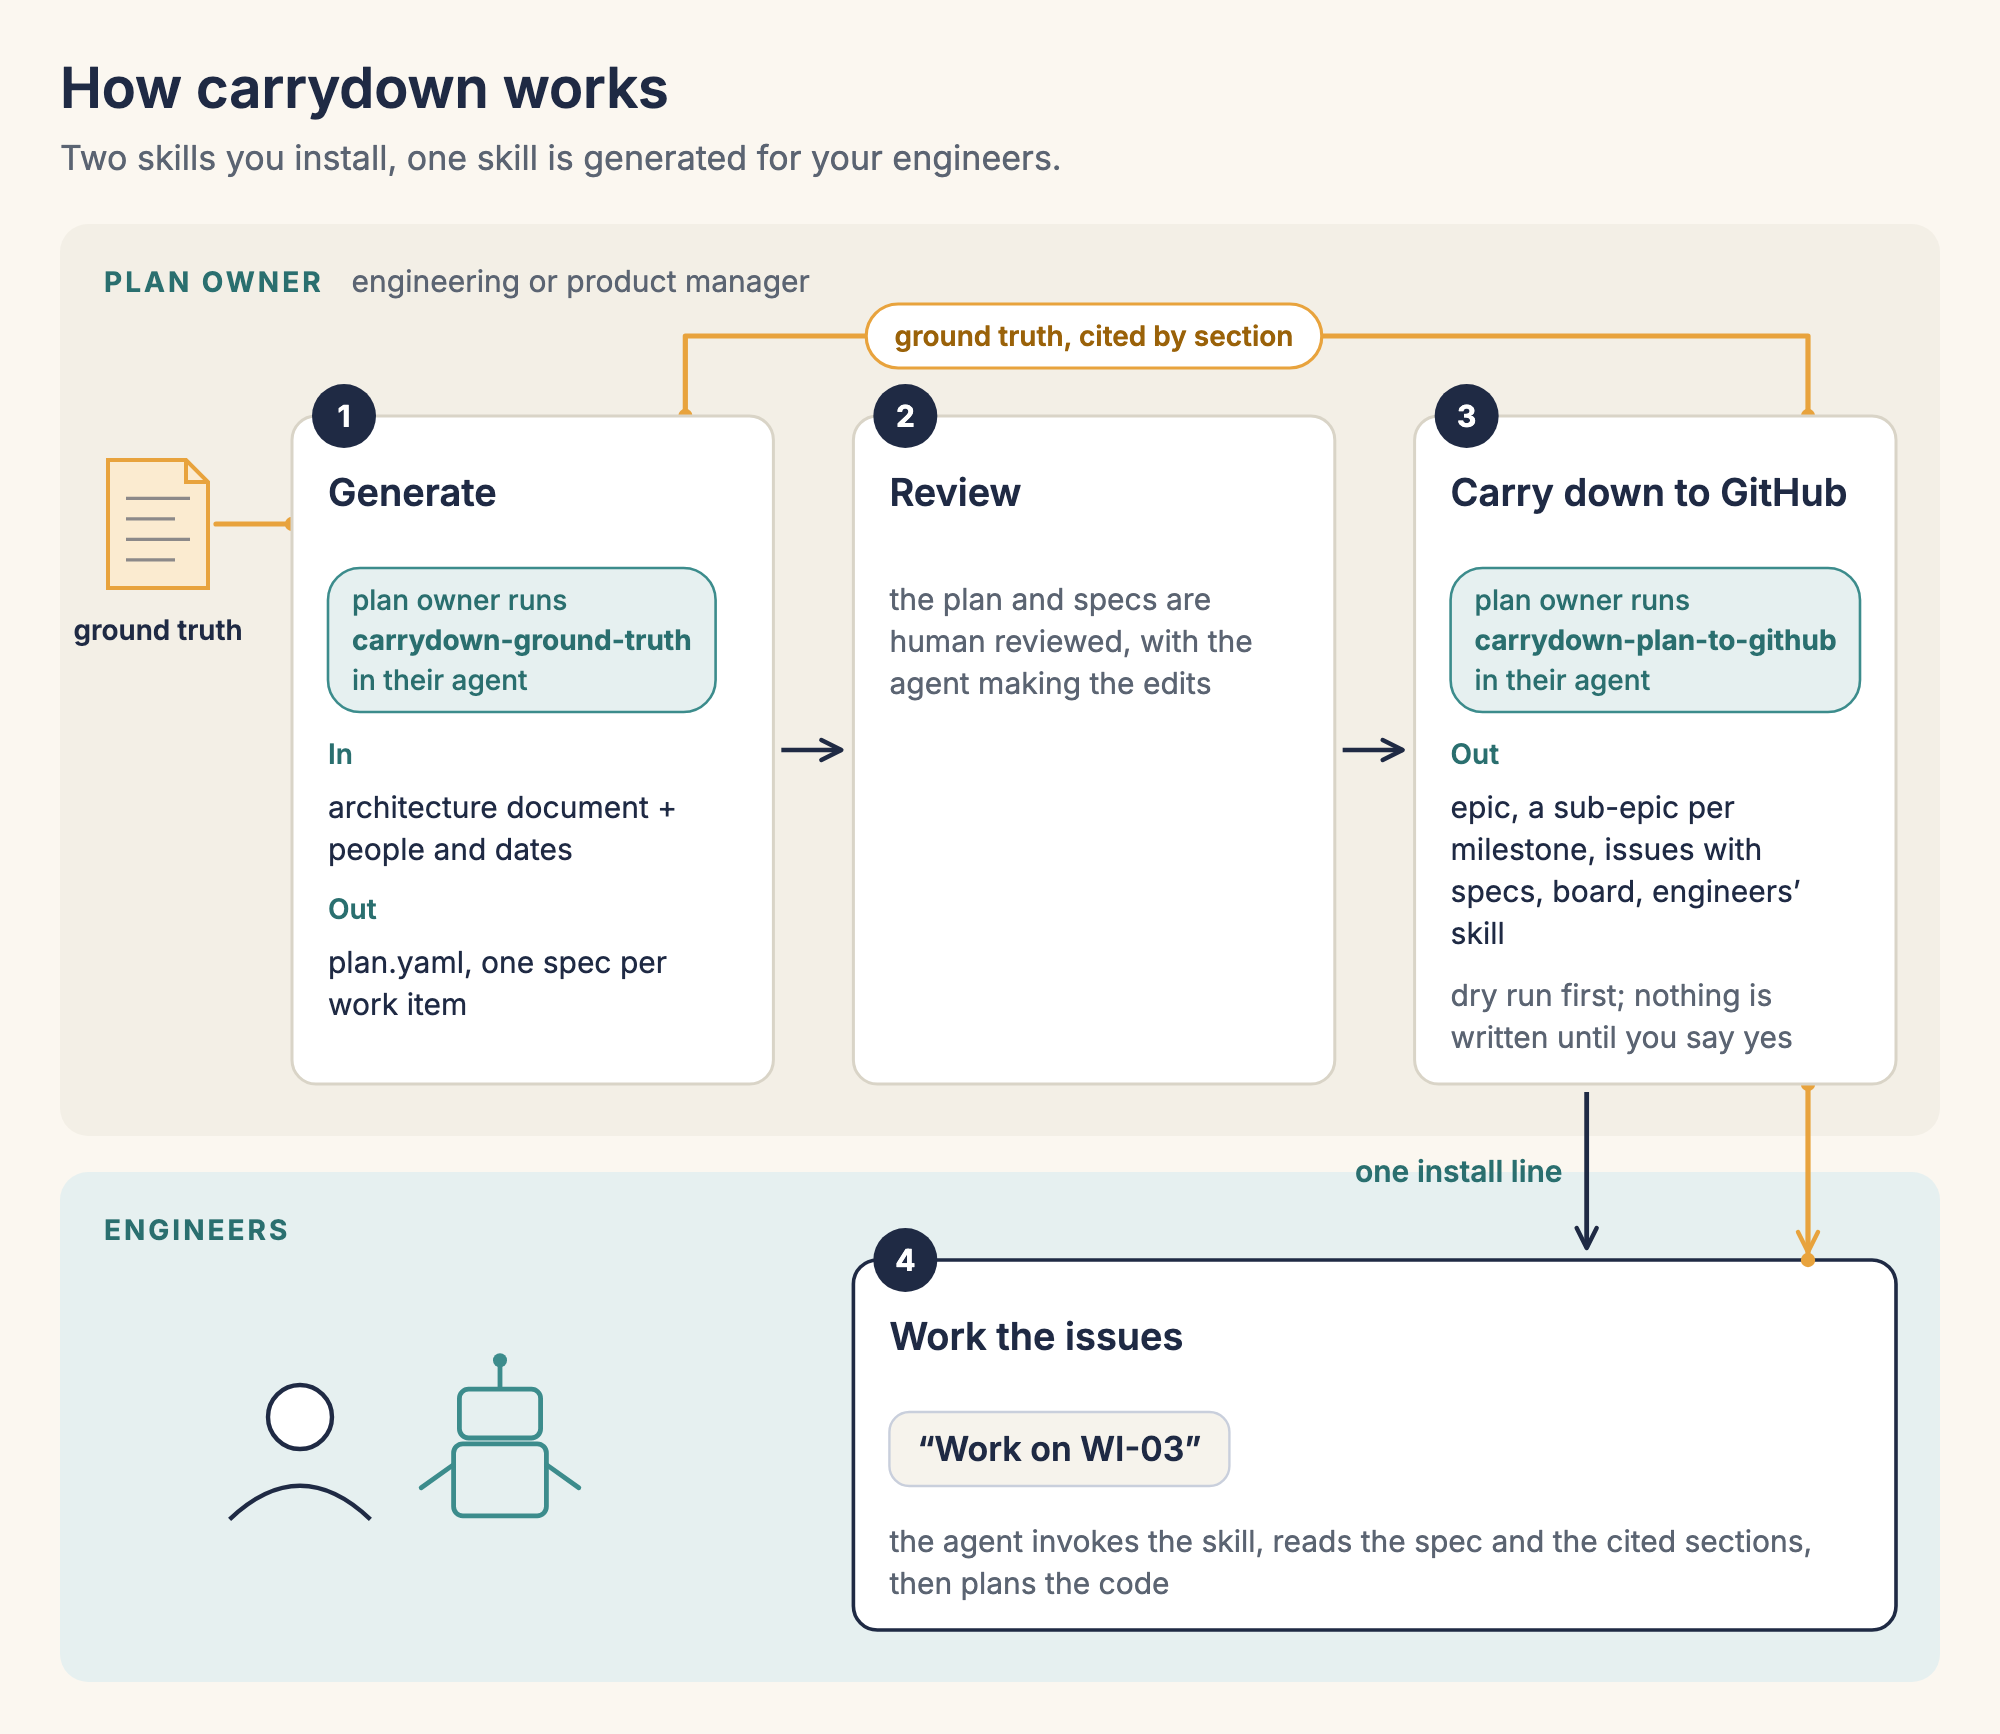
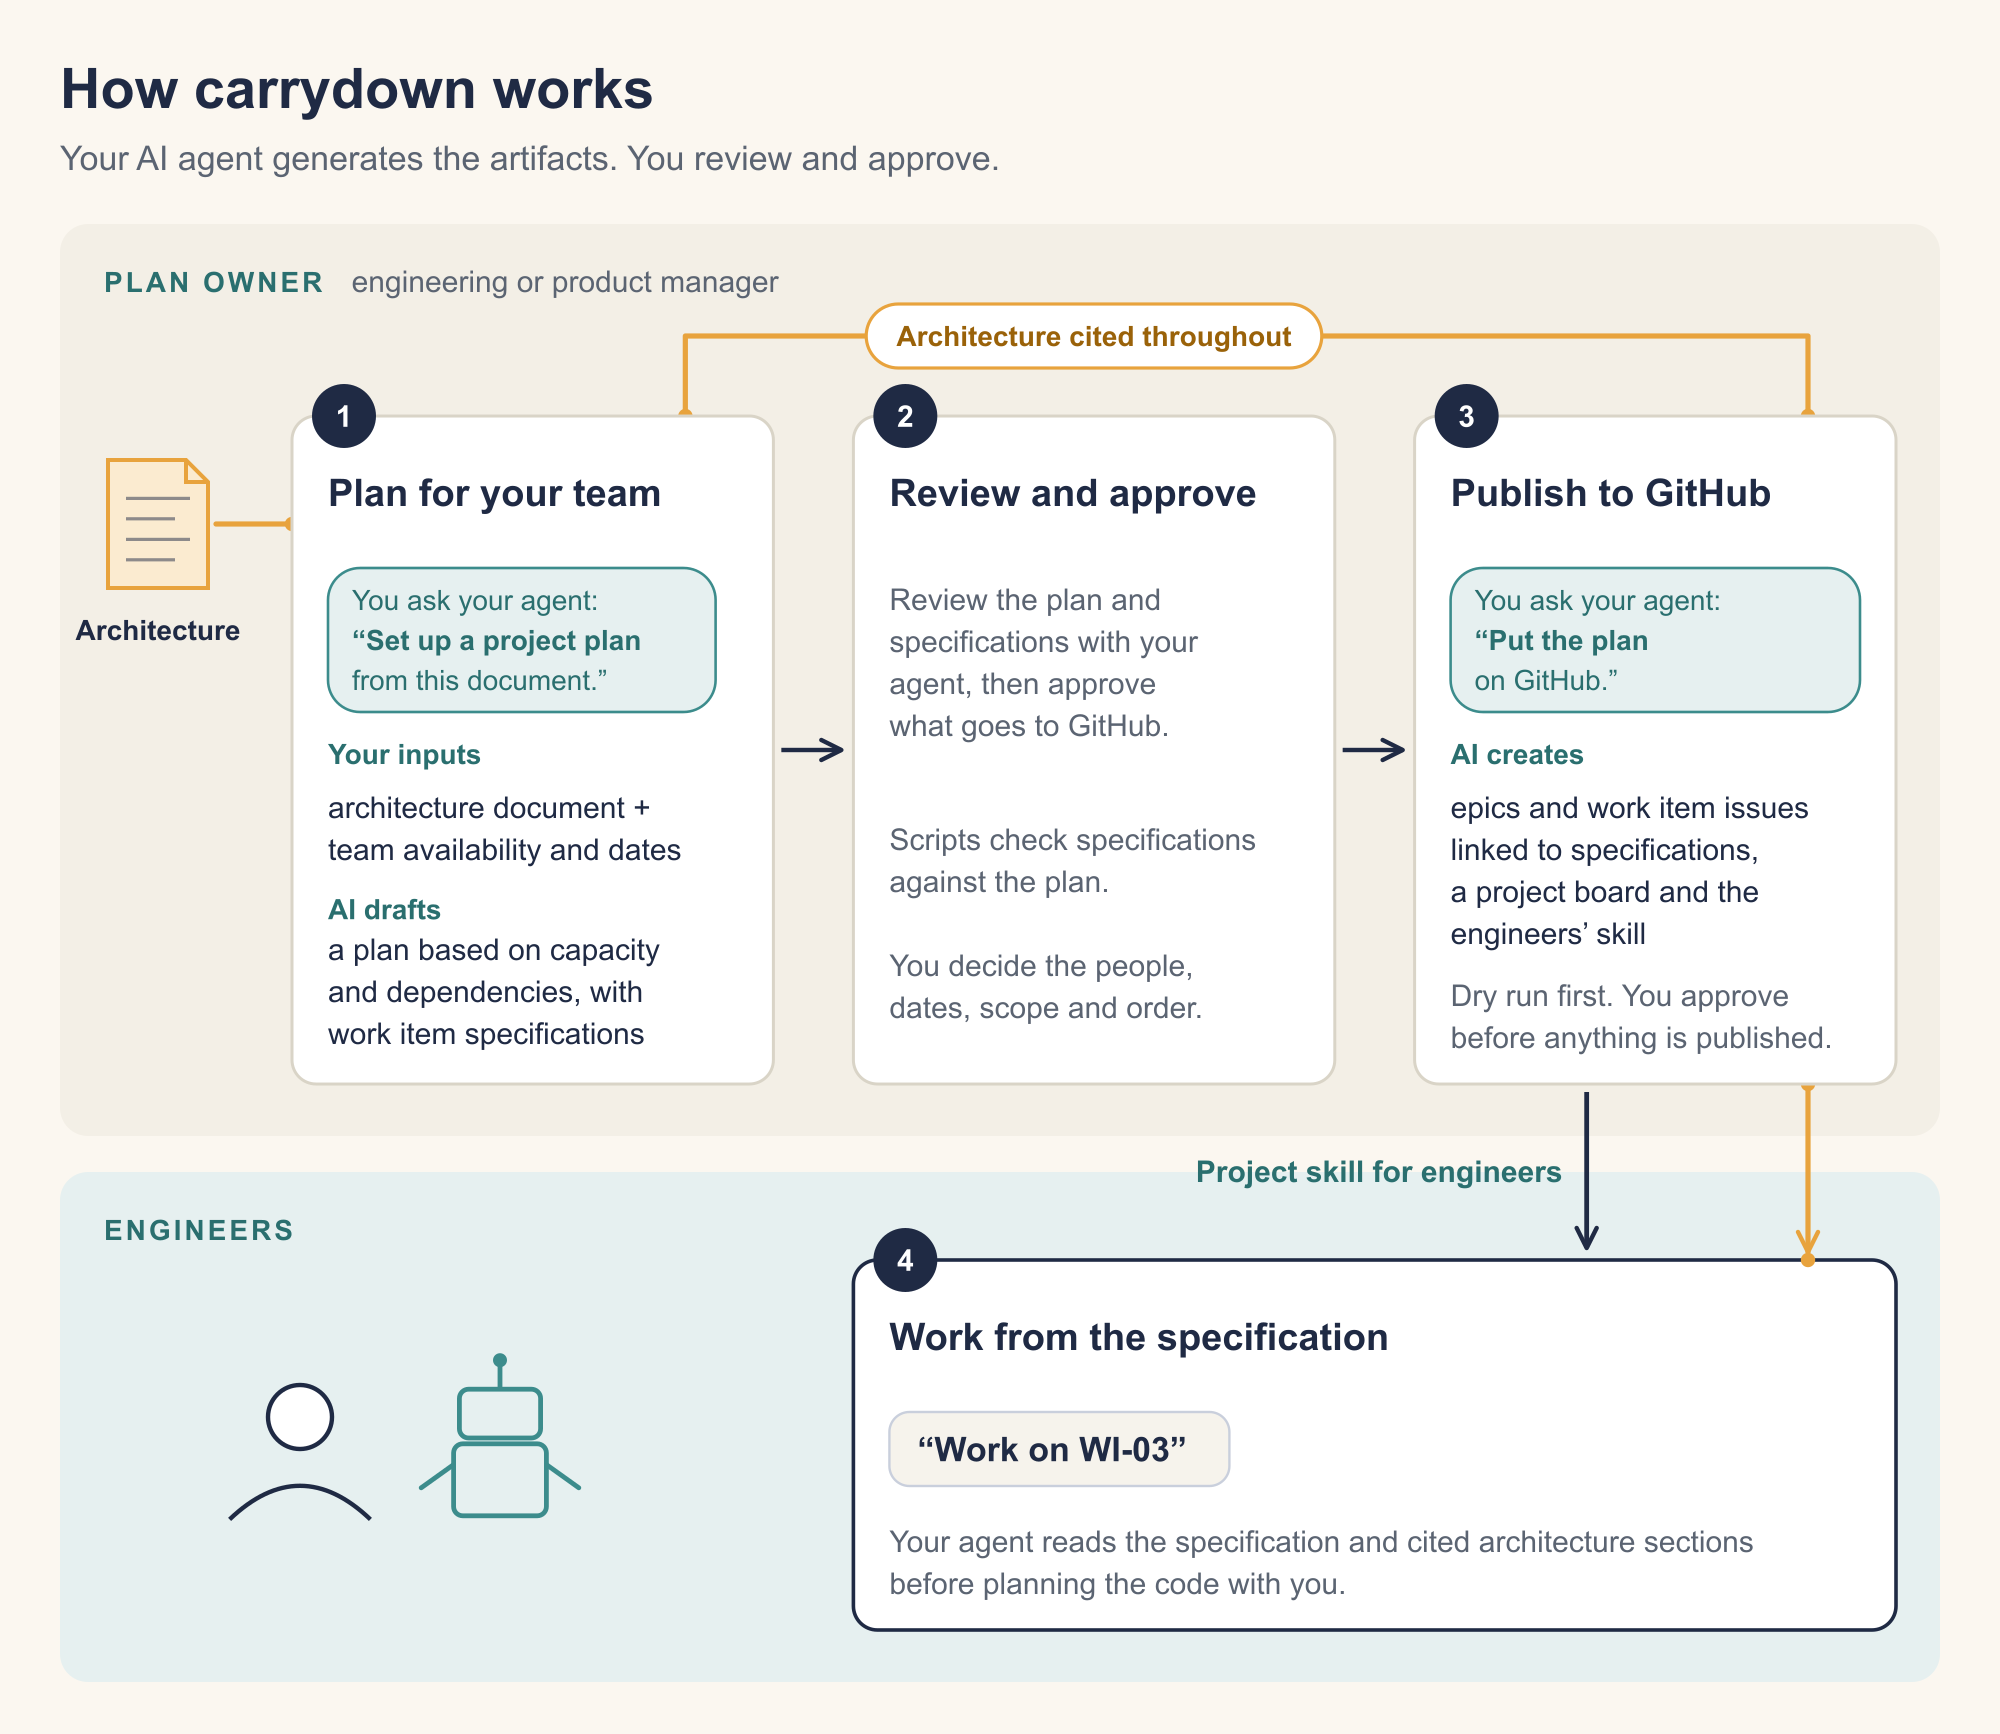
Update doc and images

diff --git a/README.md b/README.md
@@ -1,6 +1,8 @@
 # carrydown
 
-carrydown uses two packaged artificial intelligence (AI) agent skills to turn your architecture document into a project plan, specifications, GitHub issues and a project board. It then generates a project-specific skill that guides each engineer's coding agent through the work.
+carrydown is a planning and engineering handoff system for teams using artificial intelligence (AI) coding agents. Starting from your architecture document, your agent uses the carrydown skills to generate the project plan, specifications, GitHub epics and issues, project board, and a project-specific skill for your engineers' agents.
+
+The plan is built around your team's availability and target date. Scripts check the specifications against the plan. Each specification cites the architecture, and the engineers' skill directs their agents to those sections before starting work. You review and refine the artifacts with your agent and approve publication to GitHub.
 
 [![Continuous integration status](https://github.com/sct-will/carrydown/actions/workflows/ci.yml/badge.svg)](https://github.com/sct-will/carrydown/actions/workflows/ci.yml) [![License](https://img.shields.io/github/license/sct-will/carrydown?v=2)](LICENSE) [![Agent Skills](https://img.shields.io/badge/Agent%20Skills-2%20skills-teal)](https://agentskills.io)
 
@@ -18,12 +20,12 @@ carrydown uses two packaged artificial intelligence (AI) agent skills to turn yo
 
 ## How it works
 
-![How carrydown works. Two lanes. Plan owner, an engineering or product manager: step 1 Generate, the plan owner runs carrydown-ground-truth in their agent, in: architecture document plus people and dates, out: plan.yaml and one spec per work item; step 2 Review, the plan and specs are human reviewed, with the agent making the edits; step 3 Carry down to GitHub, the plan owner runs carrydown-plan-to-github in their agent, out: epic, a sub-epic per milestone, issues with specs, board, engineers' skill, with the note dry run first, nothing is written until you say yes. One install line goes down to the Engineers lane: step 4 Work the issues, the engineer says "Work on WI-03" for work item WI-03, the agent invokes the skill, reads the spec and the cited sections, then plans the code. The ground truth document is the only amber element. A thin amber thread, labeled ground truth, cited by section, runs from it through steps 1 and 3 into step 4.](docs/images/handoff.png)
+![Your AI agent uses the carrydown skills to plan around team capacity and dependencies and draft a specification for each work item. Scripts check the specifications against the plan. You review and approve the work, then the agent creates GitHub epics, issues, a project board and the engineers' skill after dry runs. Engineers use that skill to start work from the specifications and cited architecture sections. An amber thread carries the architecture through each handoff.](docs/images/handoff.png)
 
-1. **Generate.** Give your agent the ground truth, usually an architecture document, and any other relevant context. If you know the team size and target project duration, include them. The `carrydown-ground-truth` skill interviews you, then drafts a plan and one specification per work item around your constraints. Each engineer has a track, or lane of work. Each milestone ends with an integrated demonstration.
-2. **Review.** Review the plan in `docs/spec/plan.yaml` and the specifications under `docs/spec/`. Edit them with your agent until they are right. You decide the owners, dates, scope and order.
-3. **Carry down to GitHub.** Commit and push the approved plan and specifications first. Then say "Put the plan on GitHub." The `carrydown-plan-to-github` skill shows dry runs and asks for approval before creating the issues and board. It creates a parent epic for the plan, a sub-epic for each milestone, and an issue linking to each work item's specification. Finally, it generates the engineers' skill.
-4. **Work the issues.** Each engineer installs the generated skill once, then names a work item: "Work on WI-03." Their agent reads the specification and the sections it cites, then plans the code. The generated skill is named after the project.
+1. **Plan for your team.** Give your agent the ground truth, usually an architecture document, and any other relevant context. If you know the team size and target project duration, include them. The `carrydown-ground-truth` skill interviews you, then drafts a plan and one specification per work item around your constraints. Each engineer has a track, or lane of work. Each milestone ends with an integrated demonstration.
+2. **Review and approve.** Review the plan in `docs/spec/plan.yaml` and the specifications under `docs/spec/`. Edit them with your agent until they are right. You decide the owners, dates, scope and order.
+3. **Publish to GitHub.** Commit and push the approved plan and specifications first. Then say "Put the plan on GitHub." The `carrydown-plan-to-github` skill shows dry runs and asks for approval before creating the issues and board. It creates a parent epic for the plan, a sub-epic for each milestone, and an issue linking to each work item's specification. Finally, it generates the engineers' skill.
+4. **Work from the specification.** Each engineer installs the generated skill once, then names a work item: "Work on WI-03." Their agent reads the specification and the sections it cites, then plans the code. The generated skill is named after the project.
 
 <br />
 
@@ -45,7 +47,7 @@ The sample is based on a fictional expense approvals service, so the company, th
 
 ## What you get
 
-The plan and every specification trace back to the same ground truth, with dates and capacity checked against the named team.
+Your AI agent generates these artifacts using the carrydown skills. The plan and every specification trace back to the same ground truth, with dates and capacity checked against the named team.
 
 - **A plan** in `docs/spec/plan.yaml`: milestones, tracks, owners and dates fitted to your people and time, with a load table and a critical path, and a written reason for every milestone.
 - **One specification per work item**, the smallest piece of work an engineer can finish and show, citing the sections it comes from and checked against the plan by a script that also runs in continuous integration (automatic checks on every pull request).

diff --git a/docs/repository-metadata.md b/docs/repository-metadata.md
@@ -31,7 +31,7 @@ Compared with today's six topics, this keeps `agent-skills`, `github-projects` a
 
 **Skills badge:** the Agent Skills badge under the README title reads `2 skills`: two skills you install, one skill is generated for your engineers. The badge address is `https://img.shields.io/badge/Agent%20Skills-2%20skills-teal`.
 
-**Social preview image:** upload [`docs/images/social-preview.png`](images/social-preview.png) in Settings, General, Social preview. It is the README hero at 4800 by 2400 pixels, the 2 to 1 ratio GitHub asks for, and about 420 KB, under the 1 MB limit. The README itself shows the same hero at 3 to 1, [`docs/images/hero.png`](images/hero.png), so the install line sits higher on the page. Both carry the name, the tagline, the canonical phrase and the install line, so a shared link reads on its own.
+**Social preview image:** upload [`docs/images/social-preview.png`](images/social-preview.png) in Settings, General, Social preview. This image is for shared repository links; the README uses the workflow diagram.
 
 **How to apply.** The description, homepage and topics can be set in one command by someone with admin rights. The social preview has no command and is uploaded in the settings page.
 
